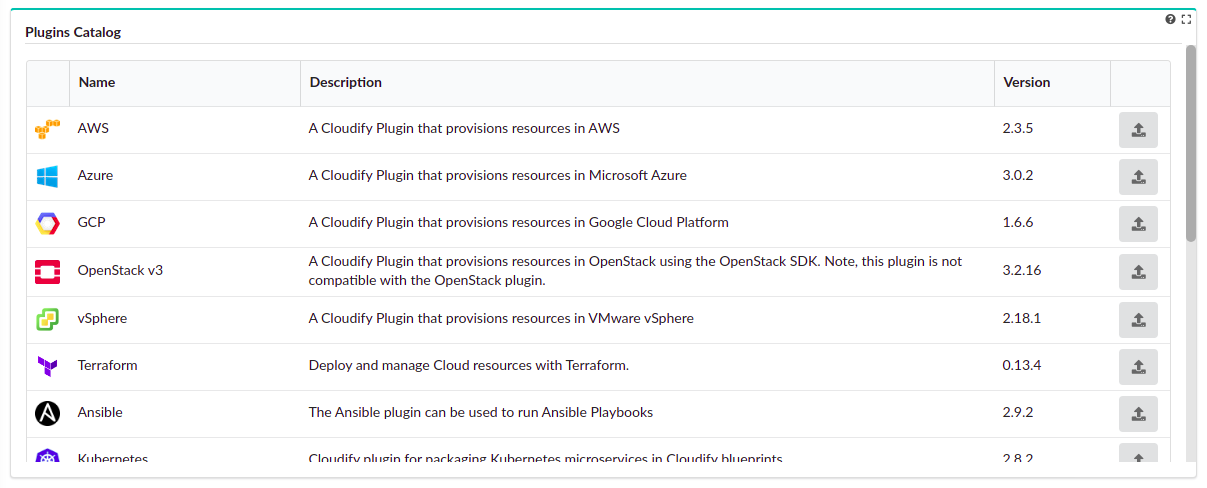
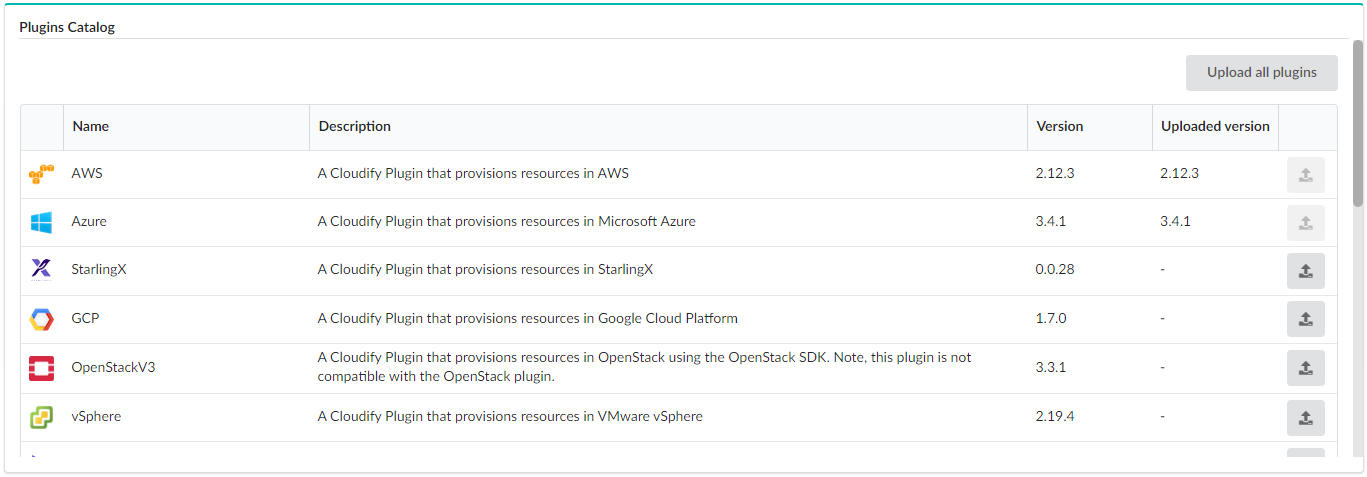
RD-2479 Plugin upload enhancements (#1919)
* Documentation updates for plugin upload enhancements

* Minor corrections

* Updated plugins widget screenshot

* Covered column rename

diff --git a/content/working_with/console/widgets/plugins.md b/content/working_with/console/widgets/plugins.md
@@ -18,7 +18,7 @@ The widget displays the following information:
 * **Plugin Package version**
 * **Supported platform**
 * **Distribution the plugin is supported on**
-* **Distribute release**
+* **Distribution release**
 * **Uploaded at**
 * **Creator**
 
@@ -27,17 +27,23 @@ Upon hovering over ID label a pop up with the plugin’s ID will open, allowing 
 ![Plugins list]( /images/ui/widgets/plugins-list.png )
 
 
-### Uploading a Plugin
+### Uploading a Plugin package
 
 1. Click **Upload** above the Plugins table.
-2. Either enter the URL of the wagon or select the wagon file from your file repository.
-3. Either enter the URL of the plugin yaml file or select the plugin yaml file from your file repository.
-4. Provide a title for the plugin (should be automatically filled with package name upon providing YAML file).
-5. Optionally provide icon file for the plugin.
-6. Click **Upload**.
+2. Click **Upload a package**
+3. Either enter the URL of the wagon or select the wagon file from your file repository.
+4. Either enter the URL of the plugin yaml file or select the plugin yaml file from your file repository.
+5. Provide a title for the plugin (should be automatically filled with package name upon providing YAML file).
+6. Optionally provide icon file for the plugin.
+7. Click **Upload**.
 
 ![Upload Plugin modal]( /images/ui/widgets/plugins_upload-plugin.png )
 
+### Uploading a Plugin from the Marketplace
+
+1. Click **Upload** above the Plugins table.
+2. Click **Upload from Marketplace**
+3. Upload selected plugins using the displayed [Plugins Catalog widget]({{< relref "working_with/console/widgets/pluginsCatalog.md" >}})
 
 ### Downloading a Plugin
 

diff --git a/content/working_with/console/widgets/pluginsCatalog.md b/content/working_with/console/widgets/pluginsCatalog.md
@@ -4,7 +4,7 @@ title: Plugins Catalog
 category: Widgets
 draft: false
 ---
-A widget listing all the latest releases of the certified plugins, allowing plugin upload to the current tenant.
+A widget listing all the latest releases of the certified plugins, allowing plugin upload to the current tenant. You can upload selected plugins or upload all plugins at once by clicking the **Upload all plugins** button.
 
 ![plugins_catalog]( /images/ui/widgets/plugins-catalog.png )
 
